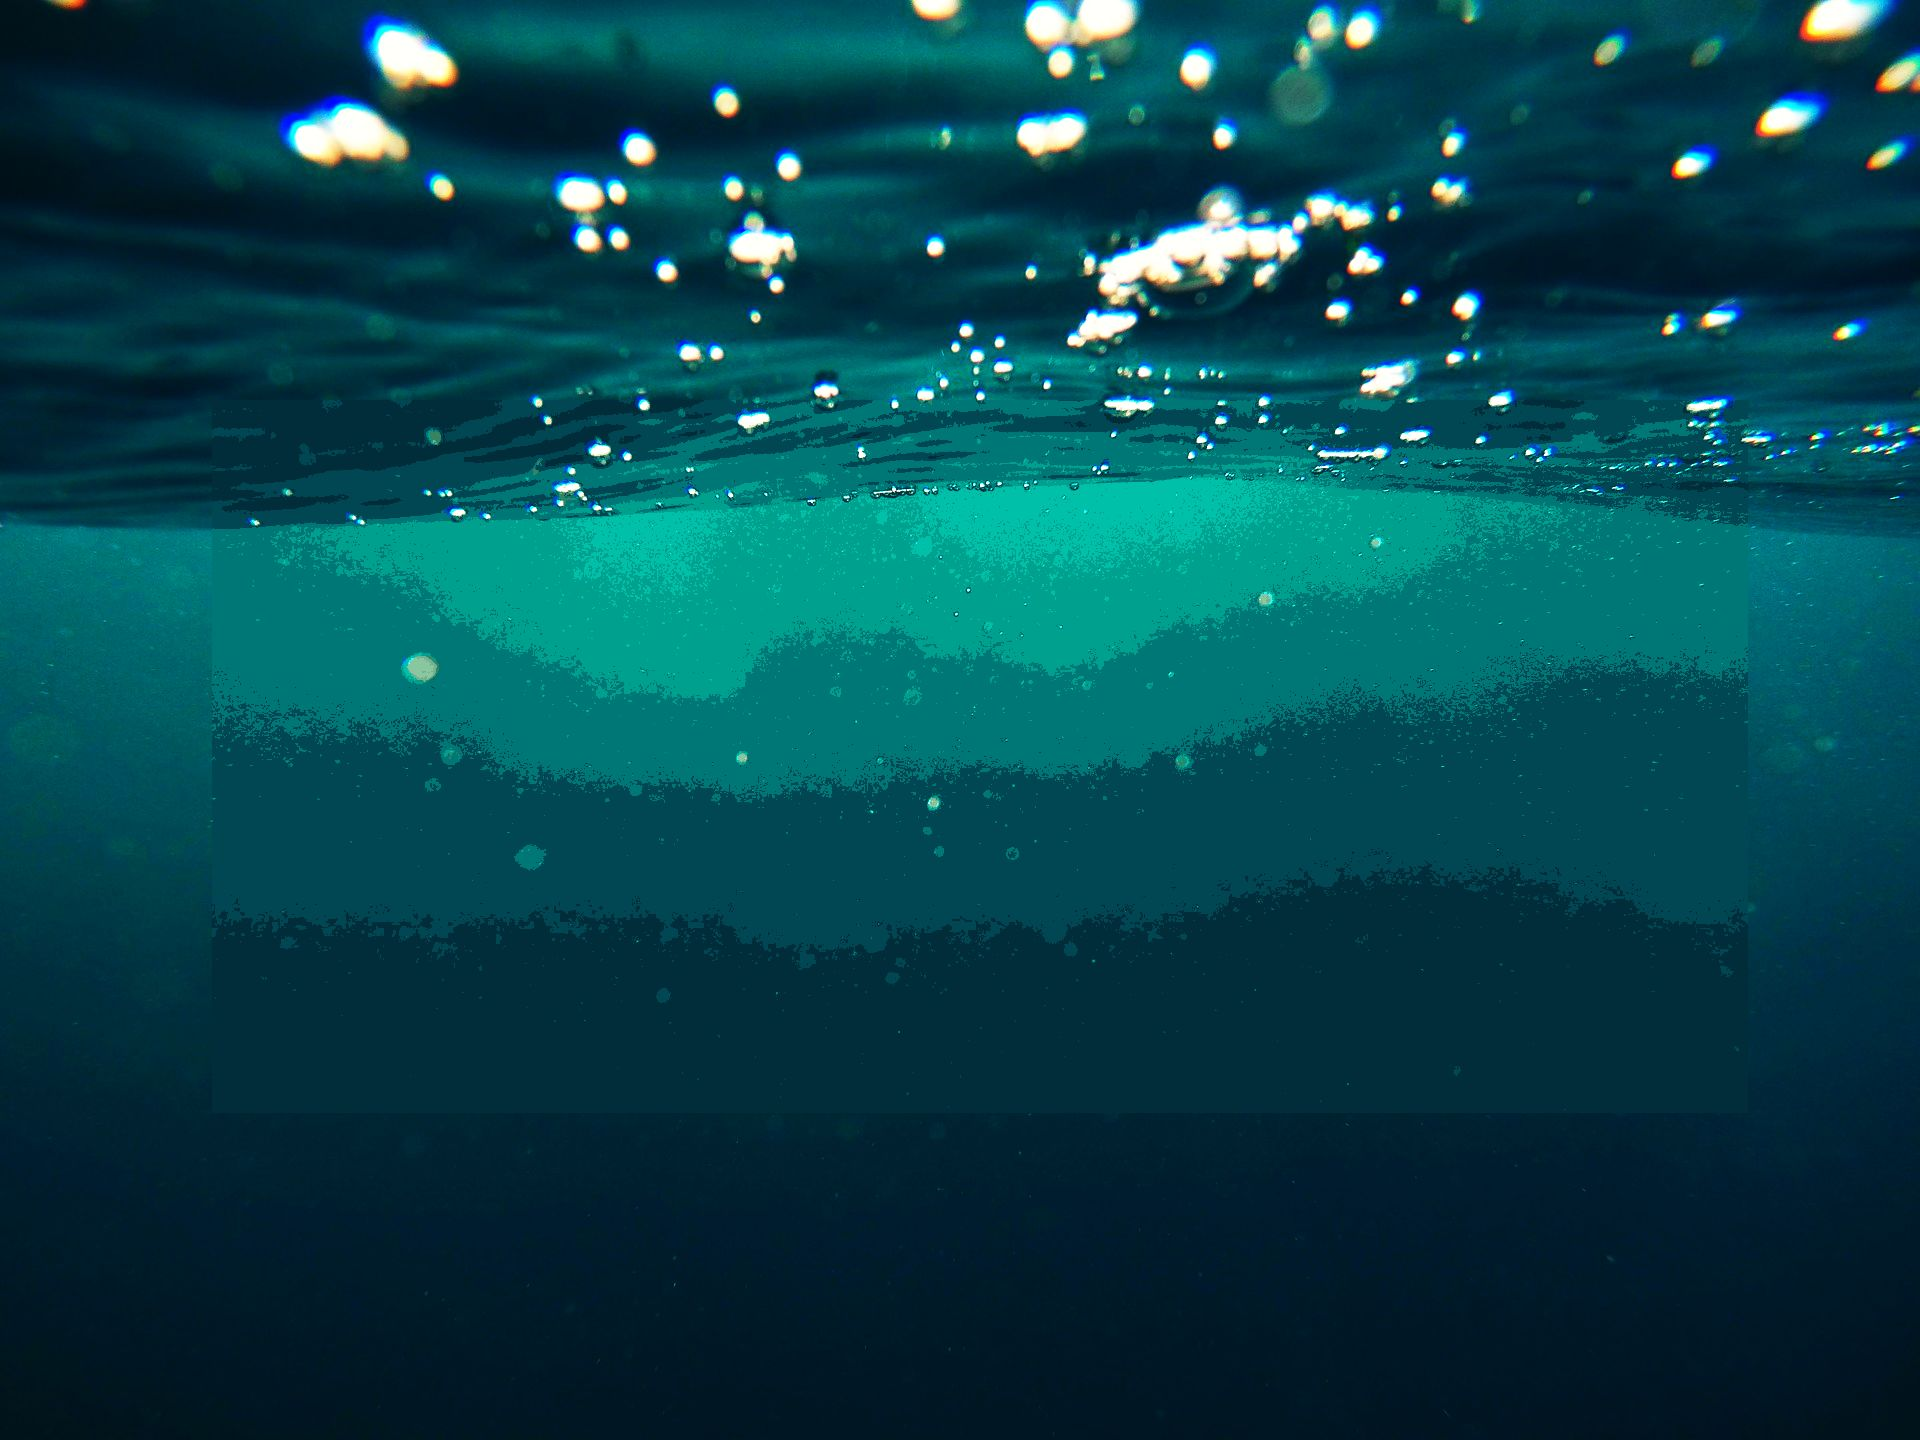
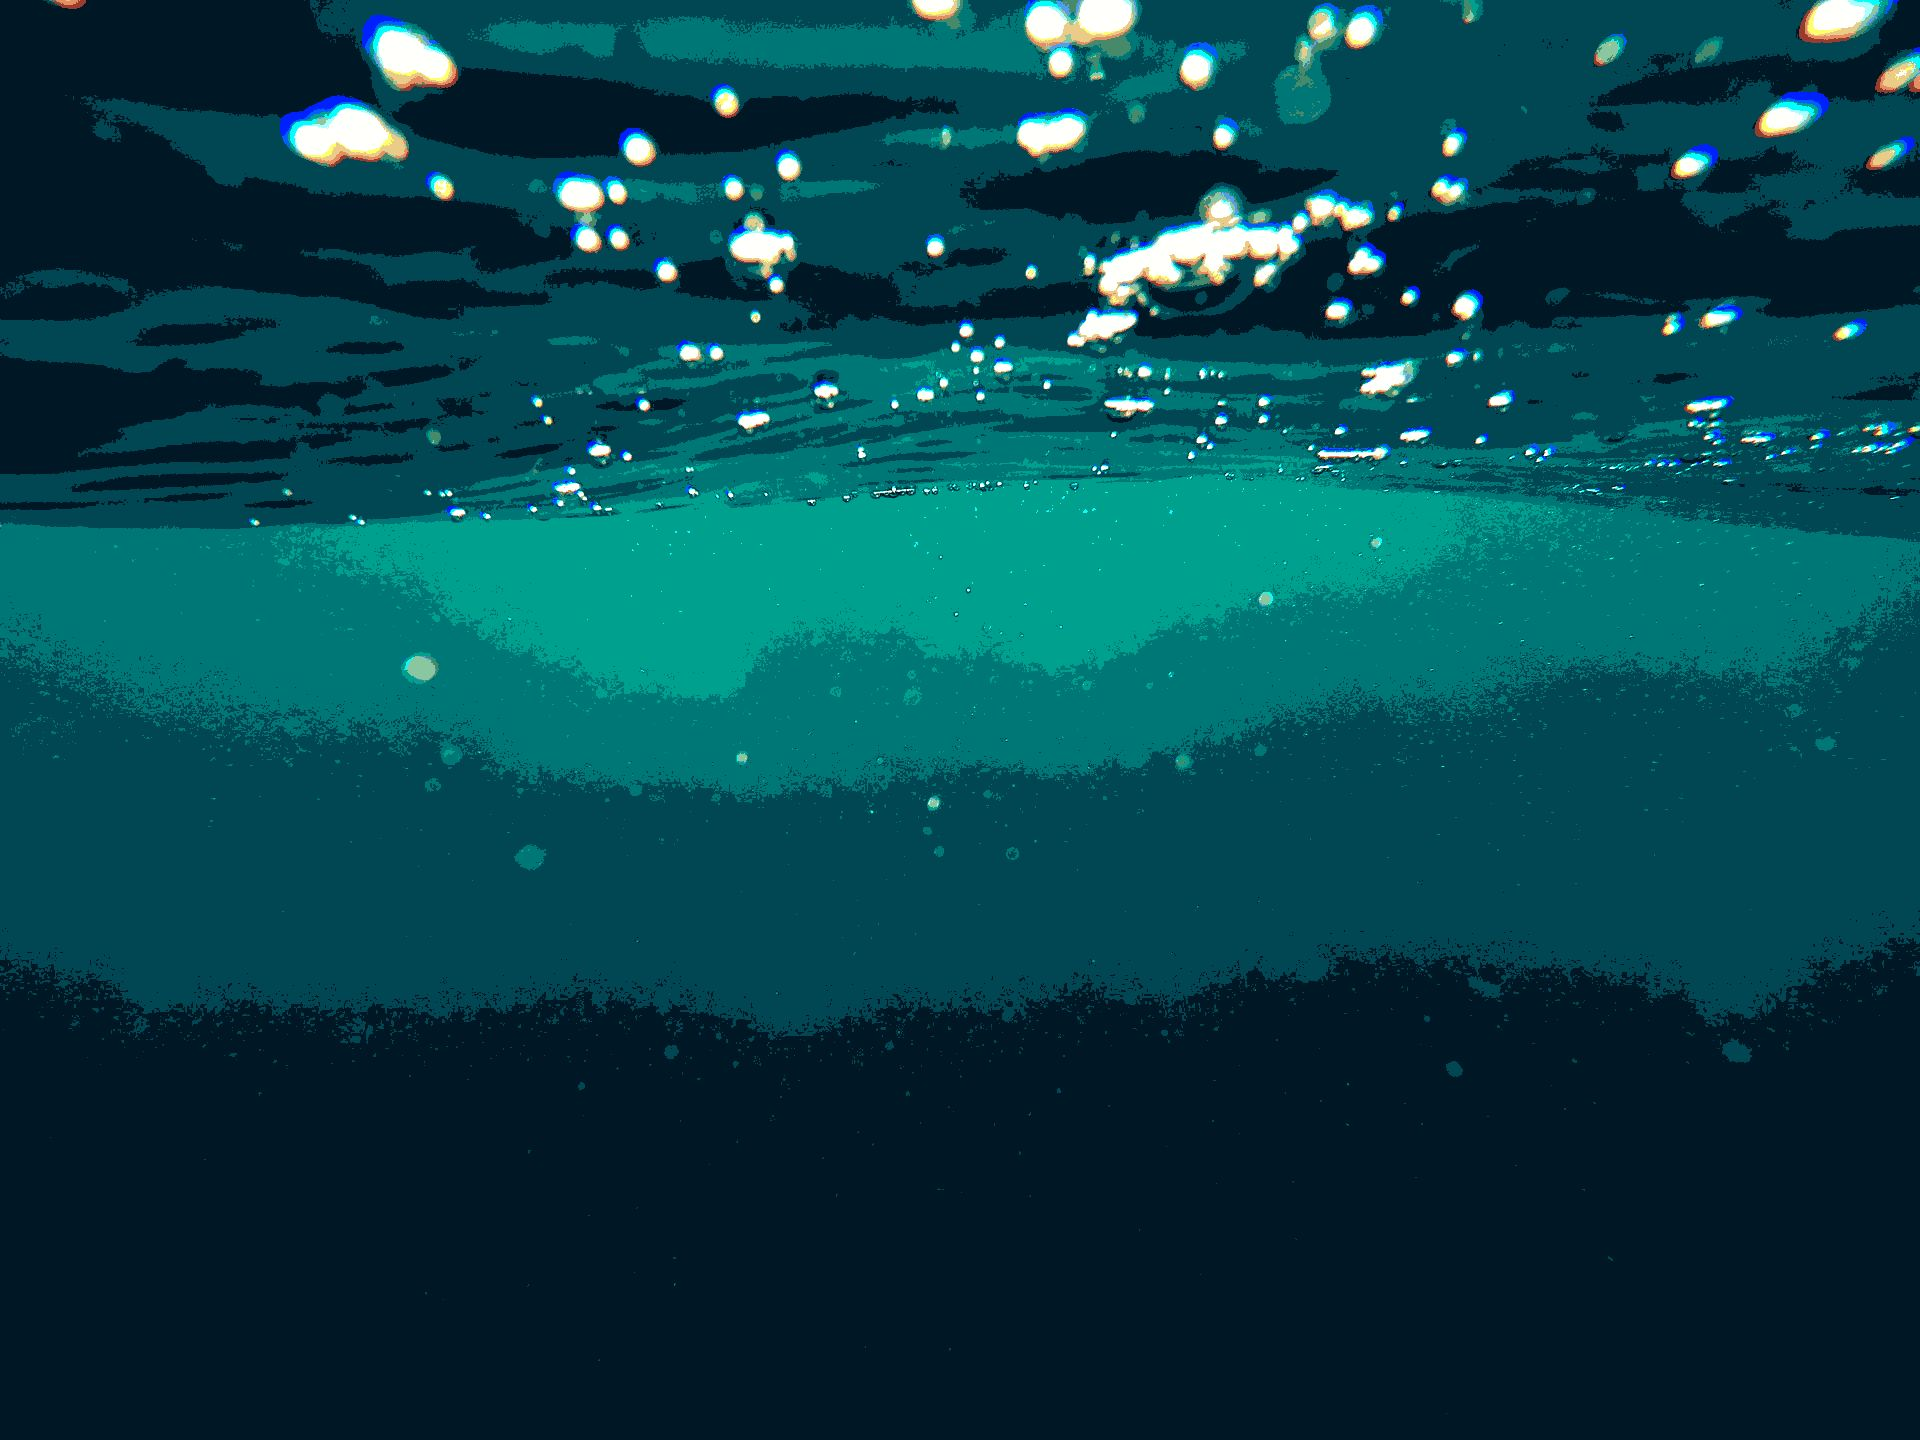
updated hero background

diff --git a/index.html b/index.html
@@ -98,77 +98,80 @@
         </div>
         <!-- About End -->
         <!-- Skills Start -->
-        <div class="fluid-container section" id="skill-container">
-            <h2 class="header" id="technical">Technologies.</h2>
-            <!-- Front End Title -->
-            <div class="row title-row">
-                <div class="col-12">
-                    <h3><span class="subheader">Front-End.</span> (Hover)</h3>
-                </div>
-            </div>
-            <div class="row blank">
-                <div class="col-md-12"></div>
-            </div>
-            <!-- Front End Skill Tiles -->
-            <div class="row skill-row justify-content-center">
-                <div class="col-md-12 col-lg-6 col-xl-3">
-                    <div class="col-lg-12 skills hvr-oo" data-toggle="tooltip" data-placement="right" data-html="true"
-                        title="<p>I've worked with HTML & CSS for almost a year now. I actually really like designing webpages, even though I consider myself more of a back-end developer.</p>">
-                        <p class="skill-text">HTML & CSS</p>
+        <div class="fluid-container" id="skill-container">
+            <div class="skill-background">
+                <h2 class="header" id="technical">Technologies.</h2>
+                <!-- Front End Title -->
+                <div class="row title-row">
+                    <div class="col-12">
+                        <h3><span class="subheader">Front-End.</span> (Hover)</h3>
                     </div>
                 </div>
-                <div class="col-md-12 col-lg-6 col-xl-3">
-                    <div class="col-lg-12 skills hvr-oo" data-toggle="tooltip" data-placement="top" data-html="true"
-                        title="<p>Sample text. Lorem ipsum get rekt noob.</p>">
-                        <p class="skill-text">JavaScript</p>
+                <div class="row blank">
+                    <div class="col-md-12"></div>
+                </div>
+                <!-- Front End Skill Tiles -->
+                <div class="row skill-row justify-content-center">
+                    <div class="col-md-12 col-lg-6 col-xl-3">
+                        <div class="col-lg-12 skills hvr-oo" data-toggle="tooltip" data-placement="right"
+                            data-html="true"
+                            title="<p>I've worked with HTML & CSS for almost a year now. I actually really like designing webpages, even though I consider myself more of a back-end developer.</p>">
+                            <p class="skill-text">HTML & CSS</p>
+                        </div>
+                    </div>
+                    <div class="col-md-12 col-lg-6 col-xl-3">
+                        <div class="col-lg-12 skills hvr-oo" data-toggle="tooltip" data-placement="top" data-html="true"
+                            title="<p>Sample text. Lorem ipsum get rekt noob.</p>">
+                            <p class="skill-text">JavaScript</p>
+                        </div>
+                    </div>
+                    <div class="col-md-12 col-lg-6 col-xl-3">
+                        <div class="col-lg-12 skills hvr-oo" data-toggle="tooltip" data-placement="bottom"
+                            data-html="true" title="<p>Sample text. Lorem ipsum get rekt noob.</p>">
+                            <p class="skill-text">ReactJS</p>
+                        </div>
+                    </div>
+                    <div class="col-md-12 col-lg-6 col-xl-3">
+                        <div class="col-lg-12 skills hvr-oo" data-toggle="tooltip" data-placement="left"
+                            data-html="true" title="<p>Sample text. Lorem ipsum get rekt noob.</p>">
+                            <p class="skill-text">Bootstrap</p>
+                        </div>
                     </div>
                 </div>
-                <div class="col-md-12 col-lg-6 col-xl-3">
-                    <div class="col-lg-12 skills hvr-oo" data-toggle="tooltip" data-placement="bottom" data-html="true"
-                        title="<p>Sample text. Lorem ipsum get rekt noob.</p>">
-                        <p class="skill-text">ReactJS</p>
+                <!-- Back End Title -->
+                <div class="row title-row">
+                    <div class="col-12">
+                        <h3><span class="subheader">Back-End.</span> (Hover)</h3>
                     </div>
                 </div>
-                <div class="col-md-12 col-lg-6 col-xl-3">
-                    <div class="col-lg-12 skills hvr-oo" data-toggle="tooltip" data-placement="left" data-html="true"
-                        title="<p>Sample text. Lorem ipsum get rekt noob.</p>">
-                        <p class="skill-text">Bootstrap</p>
+                <div class="row blank">
+                    <div class="col-md-12"></div>
+                </div>
+                <!-- Back End Skill Tiles -->
+                <div class="row skill-row justify-content-center">
+                    <div class="col-md-12 col-lg-6 col-xl-3">
+                        <div class="col-lg-12 skills hvr-oo" data-toggle="tooltip" data-placement="right"
+                            data-html="true" title="<p>Sample text. Lorem ipsum get rekt noob.</p>">
+                            <p class="skill-text">Ruby on Rails</p>
+                        </div>
                     </div>
-                </div>
-            </div>
-            <!-- Back End Title -->
-            <div class="row title-row">
-                <div class="col-12">
-                    <h3><span class="subheader">Back-End.</span> (Hover)</h3>
-                </div>
-            </div>
-            <div class="row blank">
-                <div class="col-md-12"></div>
-            </div>
-            <!-- Back End Skill Tiles -->
-            <div class="row skill-row justify-content-center">
-                <div class="col-md-12 col-lg-6 col-xl-3">
-                    <div class="col-lg-12 skills hvr-oo" data-toggle="tooltip" data-placement="right" data-html="true"
-                        title="<p>Sample text. Lorem ipsum get rekt noob.</p>">
-                        <p class="skill-text">Ruby on Rails</p>
+                    <div class="col-md-12 col-lg-6 col-xl-3">
+                        <div class="col-lg-12 skills hvr-oo" data-toggle="tooltip" data-placement="bottom"
+                            data-html="true" title="<p>Sample text. Lorem ipsum get rekt noob.</p>">
+                            <p class="skill-text">PostgreSQL</p>
+                        </div>
                     </div>
-                </div>
-                <div class="col-md-12 col-lg-6 col-xl-3">
-                    <div class="col-lg-12 skills hvr-oo" data-toggle="tooltip" data-placement="bottom" data-html="true"
-                        title="<p>Sample text. Lorem ipsum get rekt noob.</p>">
-                        <p class="skill-text">PostgreSQL</p>
+                    <div class="col-md-12 col-lg-6 col-xl-3">
+                        <div class="col-lg-12 skills hvr-oo" data-toggle="tooltip" data-placement="top" data-html="true"
+                            title="<p>Sample text. Lorem ipsum get rekt noob.</p>">
+                            <p class="skill-text">Node.JS</p>
+                        </div>
                     </div>
-                </div>
-                <div class="col-md-12 col-lg-6 col-xl-3">
-                    <div class="col-lg-12 skills hvr-oo" data-toggle="tooltip" data-placement="top" data-html="true"
-                        title="<p>Sample text. Lorem ipsum get rekt noob.</p>">
-                        <p class="skill-text">Node.JS</p>
-                    </div>
-                </div>
-                <div class="col-md-12 col-lg-6 col-xl-3">
-                    <div class="col-lg-12 skills hvr-oo" data-toggle="tooltip" data-placement="left" data-html="true"
-                        title="<p>Sample text. Lorem ipsum get rekt noob.</p>">
-                        <p class="skill-text">Lorem Ipsum</p>
+                    <div class="col-md-12 col-lg-6 col-xl-3">
+                        <div class="col-lg-12 skills hvr-oo" data-toggle="tooltip" data-placement="left"
+                            data-html="true" title="<p>Sample text. Lorem ipsum get rekt noob.</p>">
+                            <p class="skill-text">Lorem Ipsum</p>
+                        </div>
                     </div>
                 </div>
             </div>
@@ -369,7 +372,8 @@
         // Body background and hero text color changer
         const [red, green, blue] = [255, 255, 255]
         const section1 = document.querySelector('.body')
-        const section2 = document.querySelector('#head2')
+        const section2 = document.querySelector('#head1')
+        const section3 = document.querySelector('#head2')
         window.addEventListener('scroll', () => {
             let y = 0 + (window.scrollY || window.pageYOffset) /
                 130 // Transition rate and initial value for scroll color
@@ -378,6 +382,7 @@
             section1.style.backgroundColor =
                 `rgb(${r}, ${g}, ${b})` // Assigning scroll offset to background of main
             section2.style.color = `rgb(${r}, ${g}, ${b})` // Assigning to the co-main header
+            section3.style.color = `rgb(${r}, ${g}, ${b})` // Assigning to the co-main header
         })
         // Typewriter
         var typed = new Typed('#typed', {

diff --git a/main.css b/main.css
@@ -4,6 +4,7 @@ html {
     scroll-behavior: smooth;
     /* This should really be the default option. It's so much better */
     overflow-x: hidden;
+    font-family: 'Raleway', sans-serif;
 }
 
 /* Main font stylings */
@@ -67,18 +68,33 @@ canvas {
 
 /* Specific section stylings */
 
-/* Skills */
+/* Jumbotron */
+
 .jumbotron {
-    background-image: url('bubbles.jpg');
+    background-image: url('repeated-square-dark.png');
     margin-bottom: 0px;
     background-attachment: fixed;
     background-position: center;
     background-color: black;
+    background-repeat: repeat;
 }
 
 #hero-text {
     padding-top: 0px;
     padding-bottom: 20px;
+
+}
+
+/* Skills */
+
+.skill-background {
+    /* background-image: url('bubbles.jpg');
+    background-position: center; */
+    margin-left: 120px;
+    margin-right: 100px;
+    padding-left: 140px;
+    padding-right: 160px;
+    padding-top: 40px;
 }
 
 .skill-row {
@@ -119,7 +135,7 @@ canvas {
 .hvr-oo:before {
     content: '';
     position: absolute;
-    border: aquamarine solid 4px;
+    border: darkcyan solid 4px;
     border-radius: 10px;
     top: 0;
     right: 0;
@@ -145,6 +161,13 @@ canvas {
 
 /* Custom padding for portfolio section */
 #portfolio {
+    /* margin-left: 80px;
+    padding-left: 100px;
+    margin-right: 40px;
+    padding-right: 140px;
+    background-image: url('bubbles.jpg');
+    background-position: center;
+    padding-bottom: 80px; */
     padding-left: 180px;
     padding-right: 180px;
 }
@@ -505,7 +528,6 @@ canvas {
     font-weight: 900;
     padding-top: 40px;
     color: white;
-    /* mix-blend-mode: difference; */
 }
 
 #head2 {
@@ -513,7 +535,6 @@ canvas {
     /* The main headline was looking kinda squished. */
     padding-bottom: 40px;
     color: white;
-    mix-blend-mode: difference;
 }
 
 /* Mediaqueries */
